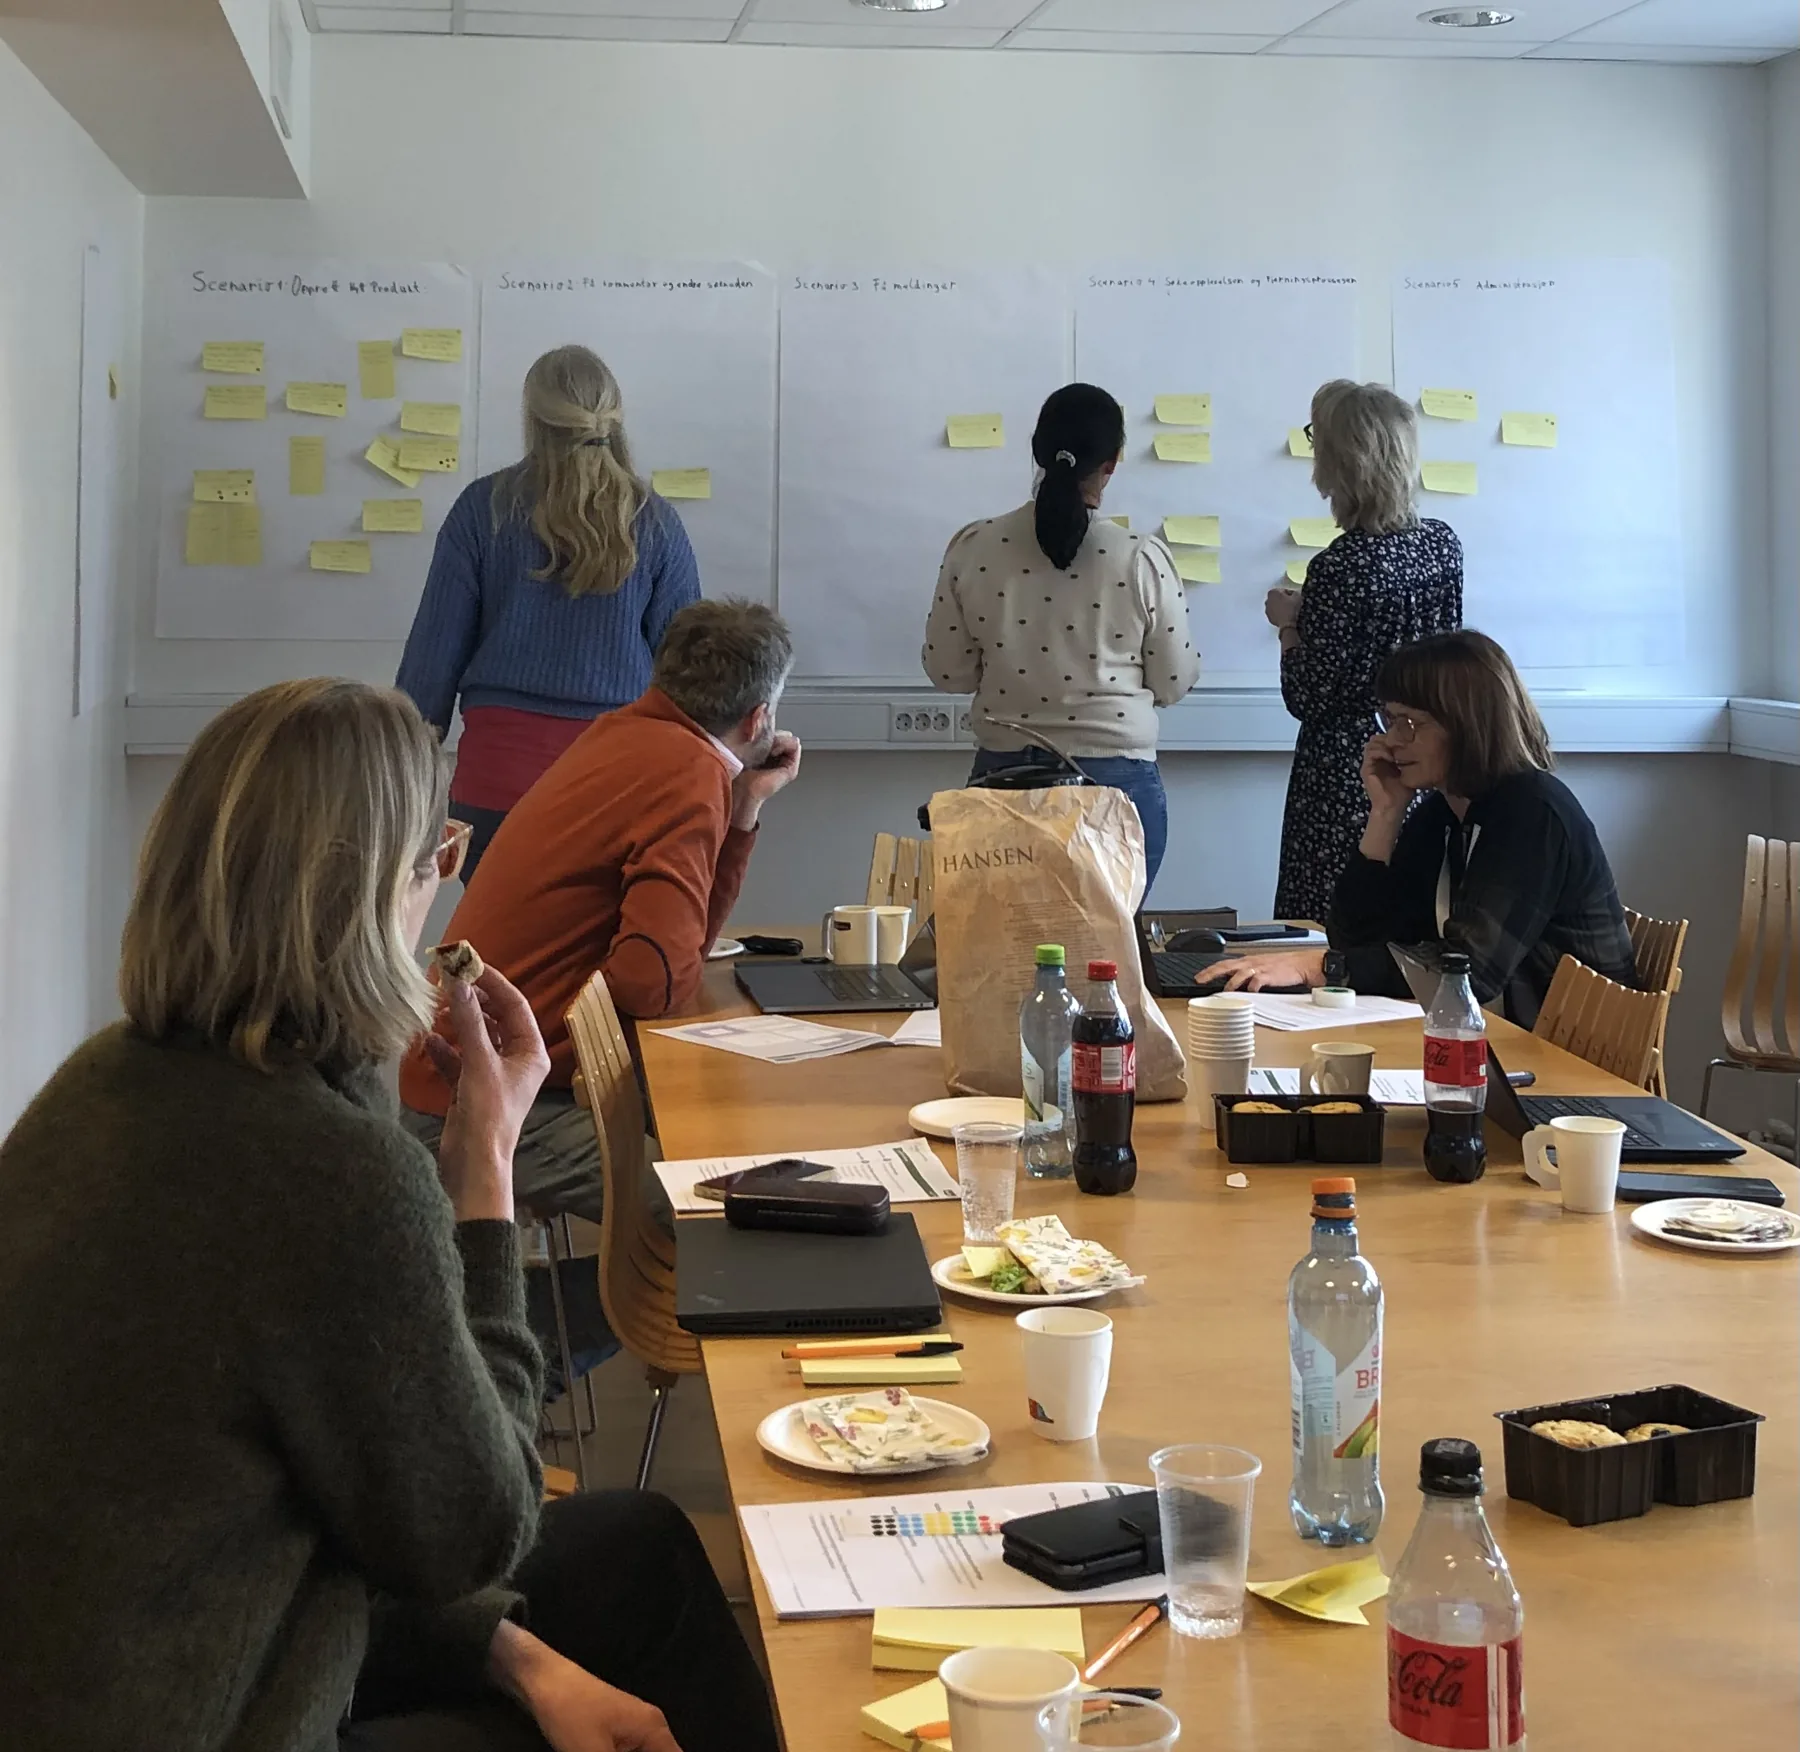
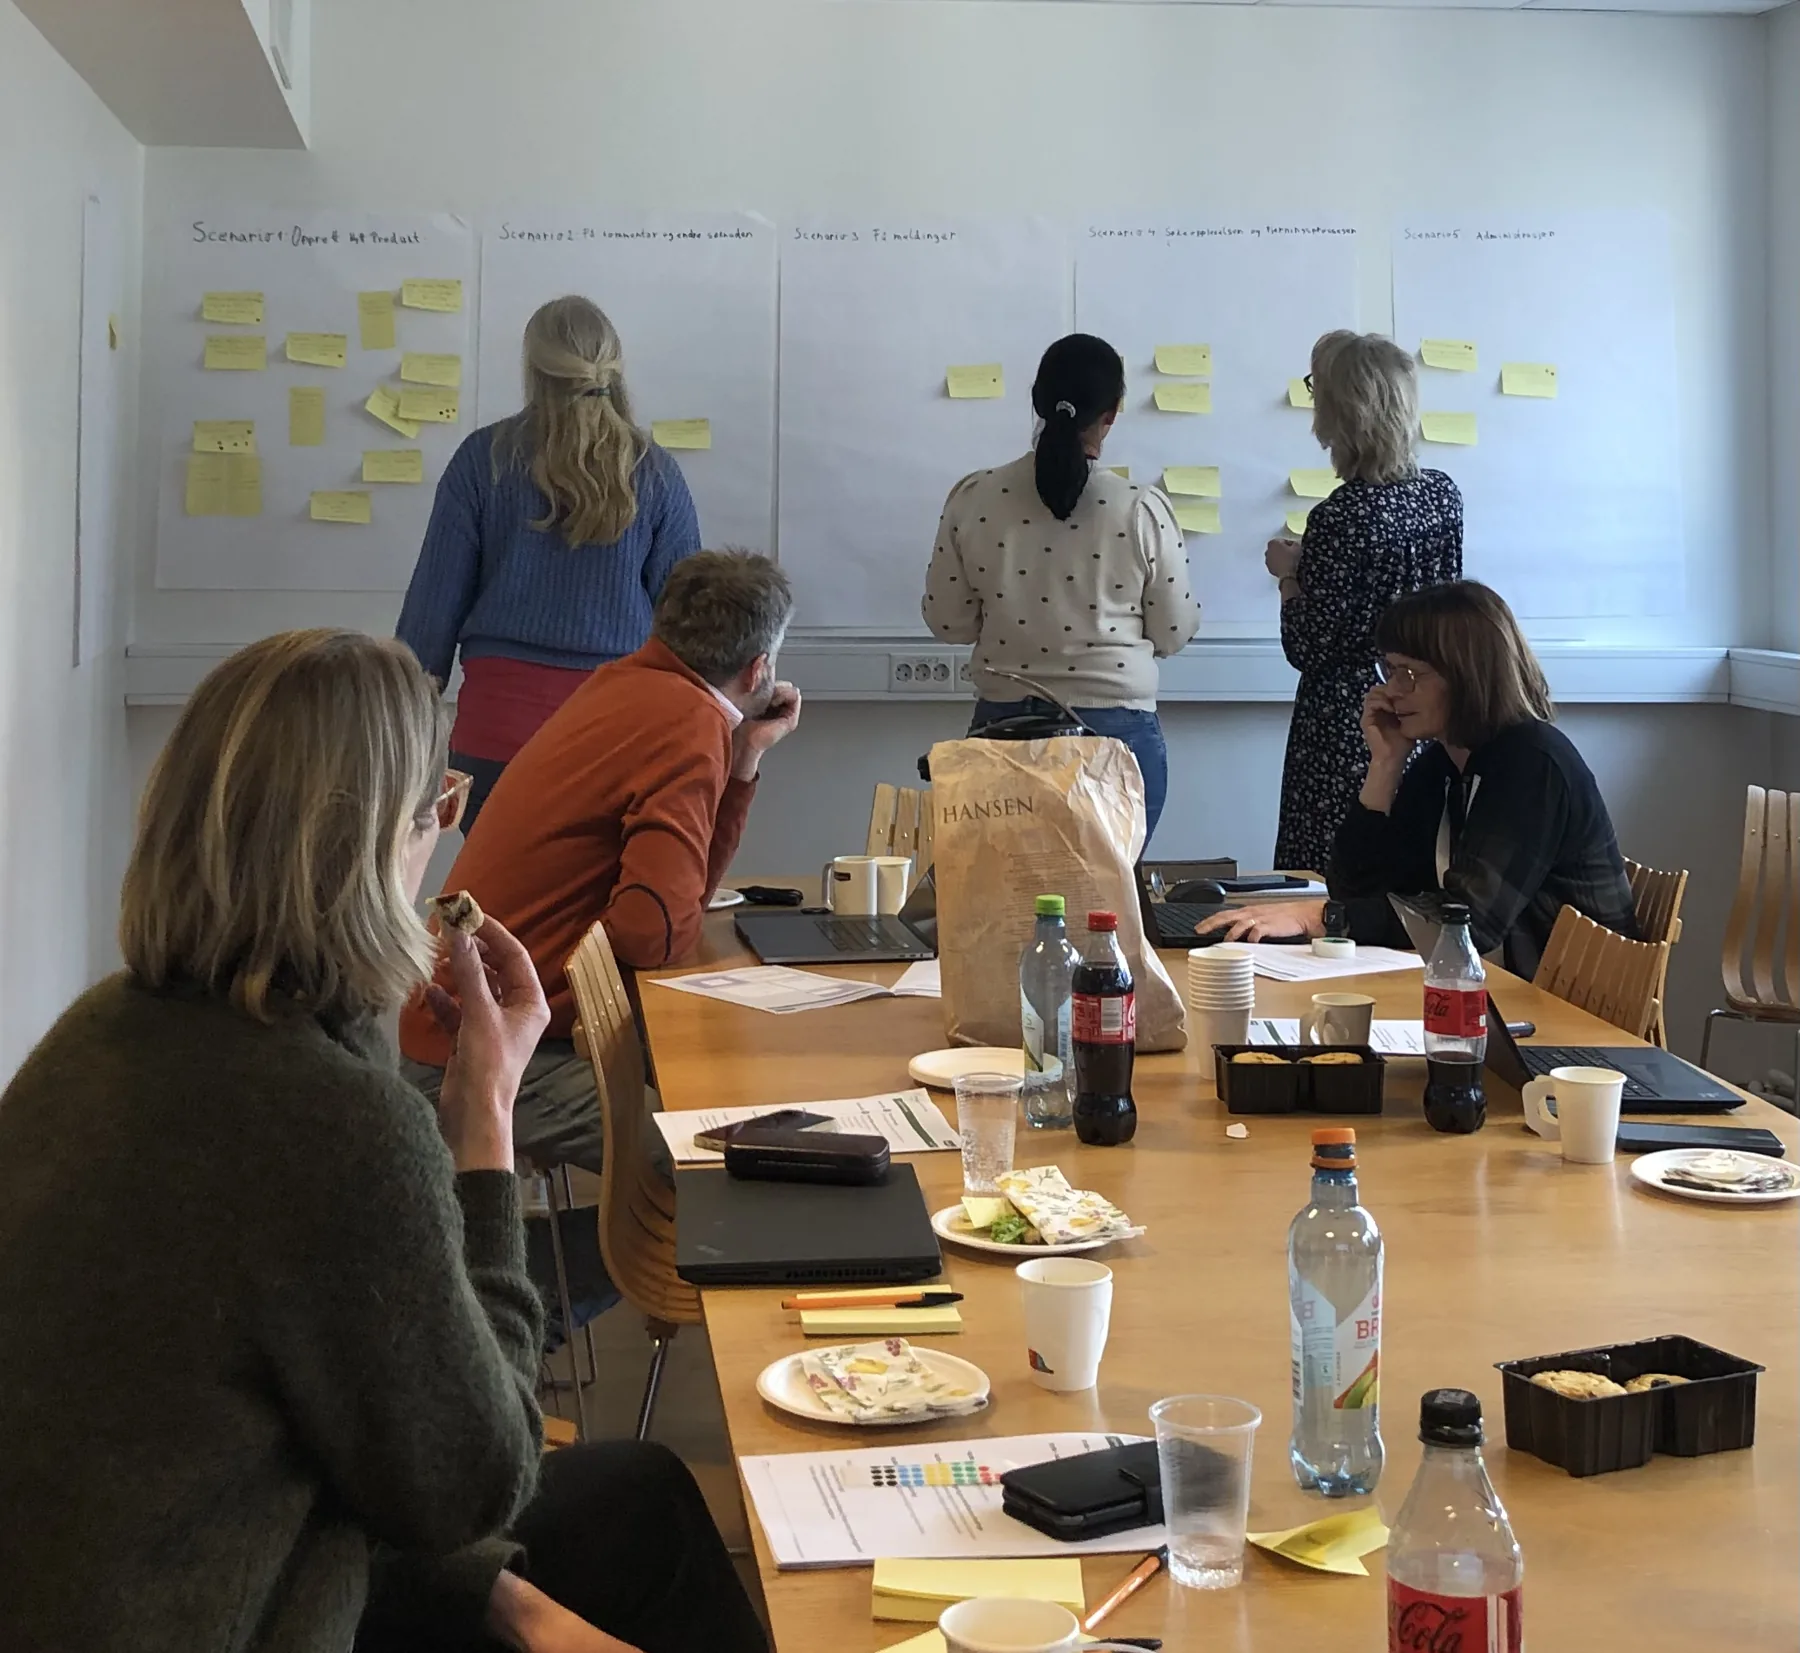
Shorten the Nyt Norge workshop and show three images side by side
The section is now two short paragraphs and the steps. Under it, the room,
the scenario 1 sticky notes and the impact and effort map run in one row,
all cropped to the map's shape. The facilitation facts say "Workspace:
FigJam remote, sticky notes on site" in place of "Tools: FigJam".

Claude-Session: https://claude.ai/code/session_011dU8jeDz2qqaVQ6sdhkt1B

diff --git a/site/src/content/skills/facilitation.ts b/site/src/content/skills/facilitation.ts
@@ -29,7 +29,7 @@ export const facilitation: SkillPage = {
           items: [
             { label: "Languages", value: "Norwegian and English" },
             { label: "Format", value: "On site or remote" },
-            { label: "Tools", value: "FigJam" },
+            { label: "Workspace", value: "FigJam remote, sticky notes on site" },
           ],
         },
       ],
@@ -43,38 +43,43 @@ export const facilitation: SkillPage = {
       eyebrow: "With the users",
       title: "Nyt Norge: finding where product registration breaks",
       body: [
-        "Nyt Norge is Norsk Mat's origin label for Norwegian food. To use it, a producer registers each product and its ingredients on Norsk Mat's platform and applies for approval. I ran a workshop with people from Coop and Nortura who do this work every day, to find out where the process breaks for them.",
-        "We kept the focus on products: searching your own products, creating, changing and removing them, and sending messages. Each participant first worked alone through scenarios with real tasks in the current portal. Then everyone wrote down what most often goes wrong in their daily work, one problem per note.",
-        "With a simple structure, each problem became a how might we question on the wall. Anything outside the process went to a parking lot, to be picked up later. We grouped similar questions, the people who wrote them explained what was behind them, and a vote showed what mattered most.",
+        "To use the Nyt Norge label, producers register products and ingredients on Norsk Mat's platform for approval. I ran a workshop with users from Coop and Nortura to find where that breaks in their daily work.",
         {
           kind: "steps",
           items: [
-            "Scenarios in the current portal",
+            "Scenarios in the portal",
             "What goes wrong",
             "How might we",
             "Group and discuss",
             "Vote",
           ],
         },
-        "The pain points were concrete. Help texts did not show what spices and ingredients need to be approved, and that note was among the most voted. Error messages said something was wrong, but not where. Products could not be found by EPD number or internal item number.",
+        "Top pain points: unclear ingredient requirements, error messages that do not say where, and no search by EPD or item number. Afterwards, Netpower mapped each problem by impact and cost to fix, to decide what to take forward.",
+      ],
+      below: [
         {
-          kind: "quote",
-          quote: {
-            text: "Hvordan komme direkte til feilen hvis noen punkter ikke er fylt ut riktig? Feilmelding men sier ikke hvor.",
-            source: "Participant, scenario 1: create a new product",
-          },
-        },
-        "Afterwards, we at Netpower placed every problem on a map of impact against the effort to fix it in design and development. That showed which fixes would help most for the least work, and made it easier to decide what to take forward.",
-        {
-          kind: "media",
-          media: {
-            ratio: "1800 / 1752",
-            caption:
-              "Nyt Norge: one wall per scenario, from creating a new product to administration.",
-            src: "/work/nyt-norge/workshop-room-scenario-walls.webp",
-            alt: "A meeting room with a long table of laptops, coffee cups and snacks. Two people sit at the table, and three stand at the wall, reading five large paper sheets covered in yellow sticky notes. Each sheet is headed with a scenario: create a new product, get a comment and change the application, get messages, the search experience and removing products, and administration.",
-            photo: true,
-          },
+          kind: "gallery",
+          items: [
+            {
+              ratio: "2000 / 1837",
+              caption: "One wall per scenario, from creating a product to administration.",
+              src: "/work/nyt-norge/workshop-room-scenario-walls.webp",
+              alt: "A meeting room with a long table of laptops, coffee cups and snacks. Two people sit at the table, and three stand at the wall, reading five large paper sheets covered in yellow sticky notes. Each sheet is headed with a scenario: create a new product, get a comment and change the application, get messages, the search experience and removing products, and administration.",
+              photo: true,
+            },
+            {
+              ratio: "2000 / 1837",
+              caption: "Scenario 1, create a new product: problems as notes, with votes.",
+              src: "/work/nyt-norge/scenario-1-sticky-notes.webp",
+              alt: "A paper sheet headed 'Scenario 1: Opprett nytt produkt' with handwritten yellow sticky notes in Norwegian. One asks how to get straight to the error when some fields are not filled in correctly, since the error message does not say where. Another asks for help texts that show the requirements for spices and ingredients to be approved, with several coloured voting dots on it.",
+            },
+            {
+              ratio: "2000 / 1837",
+              caption: "After the workshop: every problem placed by impact and effort.",
+              src: "/work/nyt-norge/impact-effort-matrix.webp",
+              alt: "A two by two matrix in Norwegian, effort ('Innsats') low and high across the top, impact ('Innflytelse') high and low down the side, with colour-coded notes in each quarter and red dots on the most voted. High impact, low effort holds most of them: help texts for ingredient requirements, error messages that point to the error, search by EPD number and internal item number, and feedback by email when an application is sent, rejected or approved.",
+            },
+          ],
         },
       ],
     },

diff --git a/project-docs/specs/skill-pages.md b/project-docs/specs/skill-pages.md
@@ -48,7 +48,7 @@ because it uses the same blocks.
 | Slug | Projects | Notes |
 | --- | --- | --- |
 | `field-to-interface` | ksl, tryggdrift, readyware, model-builder | |
-| `facilitation` | ksl, model-builder, readyware | Opens with the Nyt Norge workshop, which has no case study; photo in `public/work/nyt-norge/`, PNG originals in `assets/nyt-norge/` |
+| `facilitation` | ksl, model-builder, readyware | Opens with the Nyt Norge workshop, which has no case study: a gallery of the room, the scenario 1 notes and the impact and effort map, all cropped to the map's shape. Web copies in `public/work/nyt-norge/`, originals (PNG, and the map as webp) in `assets/nyt-norge/` |
 | `ai-across-the-design-process` | ksl, tryggdrift, project-three | Two `[confirm]` items in TODO.md |
 
 Facts are taken from `content/case-studies/*.ts`. Where the brief and a case

diff --git a/CHANGELOG.md b/CHANGELOG.md
@@ -11,6 +11,13 @@ Related: project-docs/{insights|decisions|specs}/filename.md
 
 ---
 
+## 2026-10-26 — Nyt Norge workshop, shorter, with three images
+The section is cut to two short paragraphs and the steps. Under it, the room,
+the scenario 1 sticky notes and the impact and effort map sit side by side,
+cropped to one shape. "Tools" in the facilitation facts is now "Workspace":
+FigJam remote, sticky notes on site.
+Related: project-docs/specs/skill-pages.md
+
 ## 2026-10-26 — Nyt Norge workshop on the facilitation page
 The facilitation page opens its workshops with Nyt Norge: users from Coop
 and Nortura worked through product scenarios in the current portal, turned
